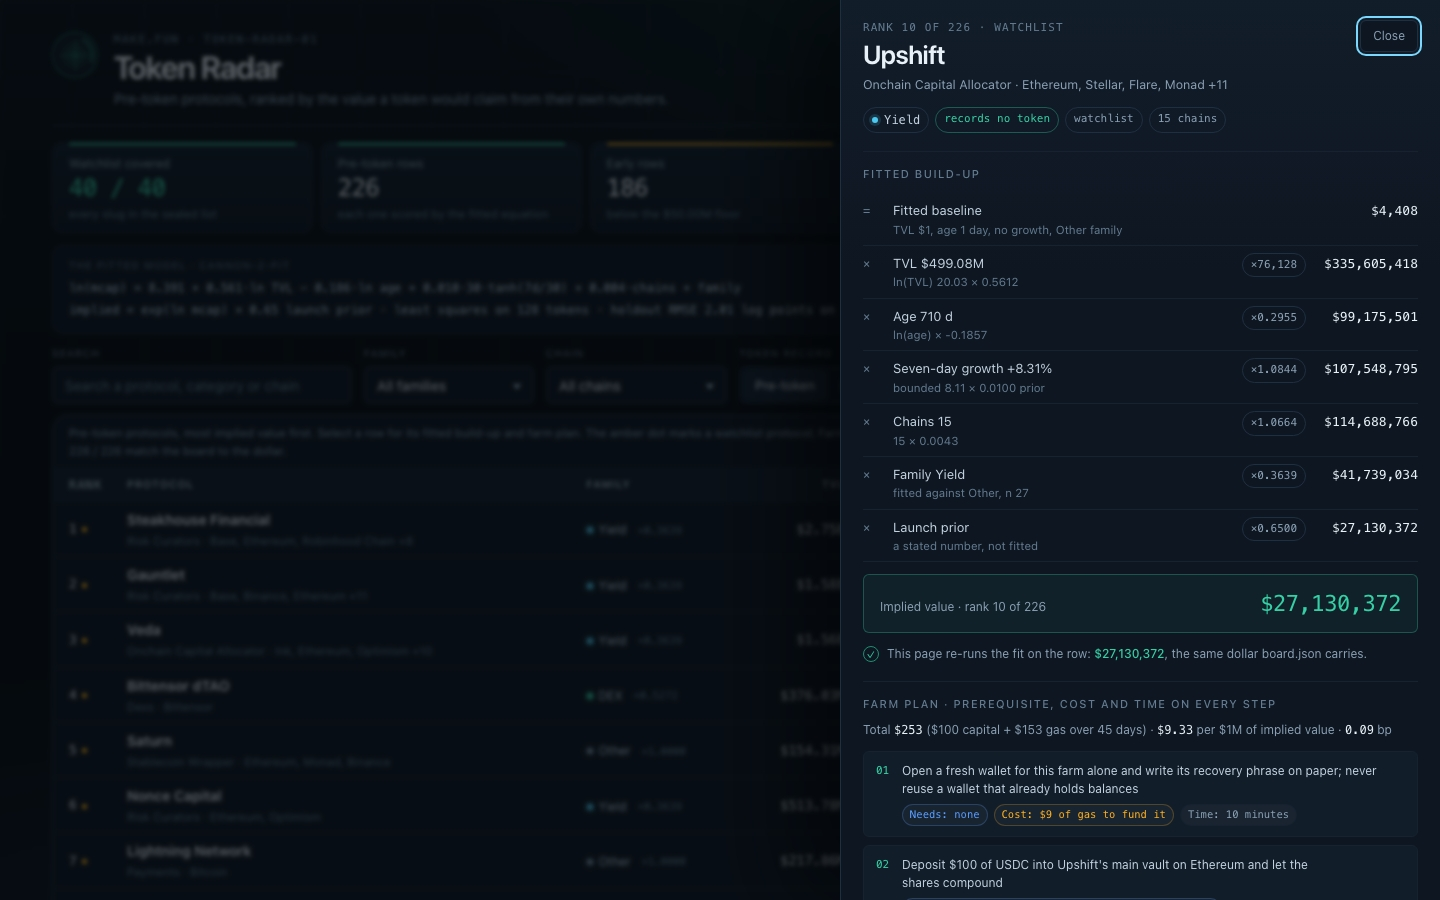
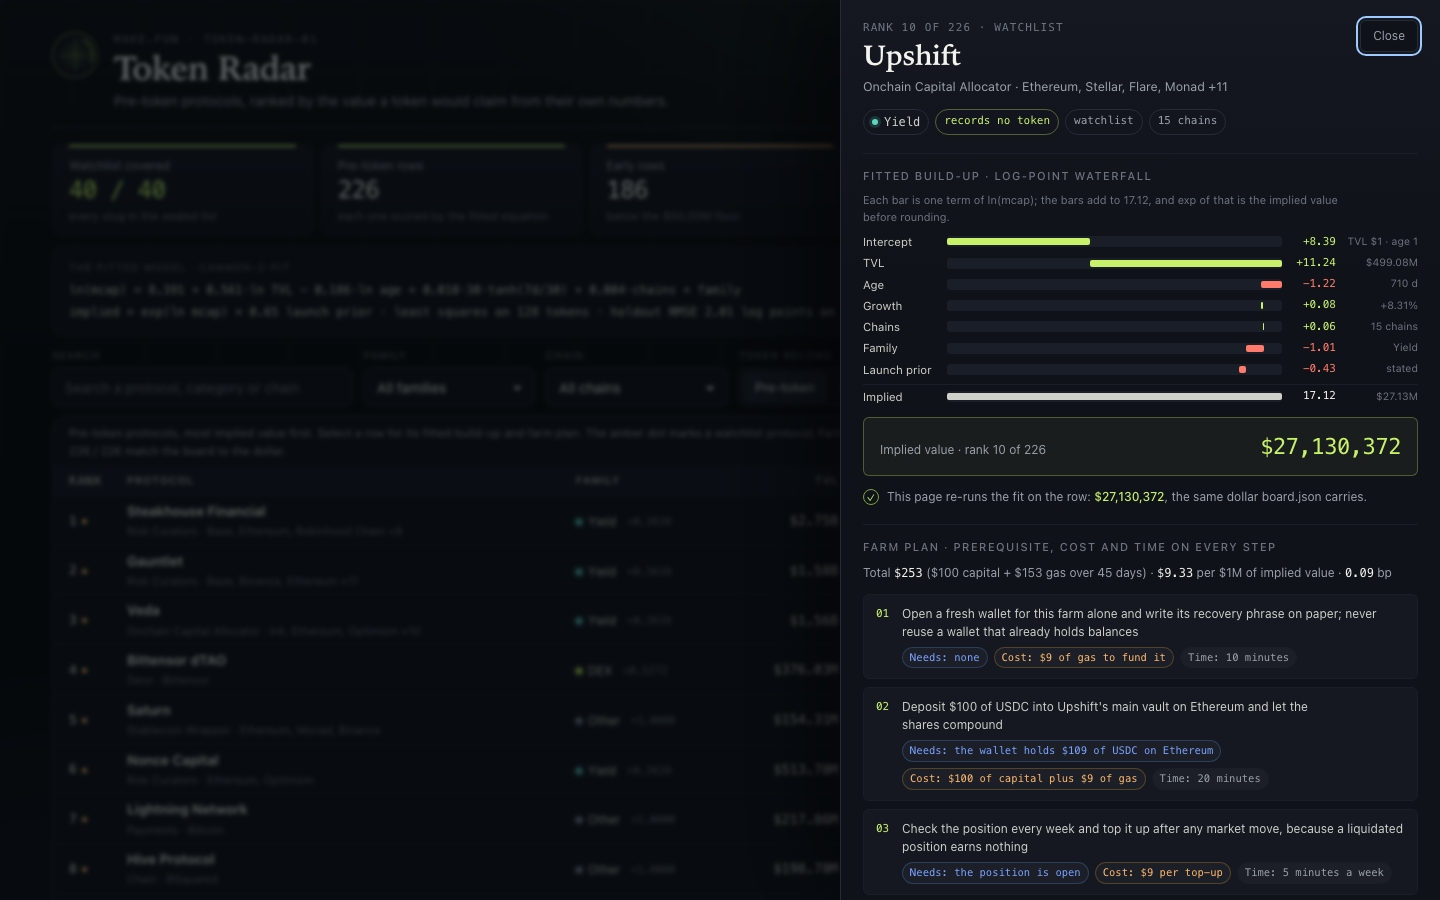
Rebuild the visual system and add a log-point waterfall
New ink-and-lime palette, serif display type, a denser board table, and a waterfall in the detail
drawer that draws each fitted term as a log-space bar ending at the implied value. The copy is
trimmed so the dossier's source text keeps fitting whole.

diff --git a/dashboard/app.css b/dashboard/app.css
@@ -1,35 +1,36 @@
 /* Token Radar: one palette, one spacing scale, one type ramp; colour only for families and direction. */
 
 :root {
-  --ground: #070b10;
-  --ground-2: #0a1119;
-  --panel: #0e1621;
-  --panel-2: #121d2a;
-  --raise: #172334;
-  --line: #1f2f42;
-  --line-soft: #16222f;
-  --ink: #e9f1f8;
-  --ink-2: #c3d2e0;
-  --muted: #8ba0b5;
-  --dim: #647b91;
-  --signal: #35d0a5;
-  --signal-2: #1f8f70;
-  --amber: #ffb020;
-  --danger: #ff6b6b;
-  --focus: #7cd7ff;
+  --ground: #08090b;
+  --ground-2: #0d0f13;
+  --panel: #101219;
+  --panel-2: #151821;
+  --raise: #1d212c;
+  --line: #262b38;
+  --line-soft: #1a1e28;
+  --ink: #f2f3ee;
+  --ink-2: #cdd1c9;
+  --muted: #9aa1ab;
+  --dim: #6d7480;
+  --signal: #c9f26b;
+  --signal-2: #7fa13c;
+  --amber: #ffb86b;
+  --danger: #ff7a6b;
+  --focus: #9ecbff;
 
   --perp: #ffb020;
-  --dex: #35d0a5;
-  --lending: #5b9dff;
-  --cdp: #b18cff;
-  --rwa: #ff7a59;
-  --yield: #4cc9f0;
-  --restaking: #f7d154;
-  --bridge: #9b8cff;
-  --other: #7d8fa3;
+  --dex: #c9f26b;
+  --lending: #7aa2ff;
+  --cdp: #c9a7ff;
+  --rwa: #ff8a65;
+  --yield: #5cd6c0;
+  --restaking: #ffd166;
+  --bridge: #a99bff;
+  --other: #8b94a3;
 
   --font-body: ui-sans-serif, system-ui, -apple-system, "Segoe UI", Roboto, "Helvetica Neue", sans-serif;
   --font-num: ui-monospace, "SF Mono", SFMono-Regular, Menlo, Consolas, "Liberation Mono", monospace;
+  --font-display: "Iowan Old Style", "Palatino Linotype", Palatino, "Book Antiqua", Georgia, serif;
 
   --s1: 4px;
   --s2: 8px;
@@ -51,8 +52,8 @@ body {
   min-height: 100vh;
   color: var(--ink);
   background:
-    radial-gradient(1100px 520px at 78% -8%, rgba(53, 208, 165, 0.10), transparent 62%),
-    radial-gradient(900px 460px at 8% 104%, rgba(91, 157, 255, 0.07), transparent 60%),
+    radial-gradient(1100px 520px at 78% -8%, rgba(201, 242, 107, 0.08), transparent 62%),
+    radial-gradient(900px 460px at 8% 104%, rgba(122, 162, 255, 0.06), transparent 60%),
     linear-gradient(180deg, var(--ground-2), var(--ground) 42%);
   background-attachment: fixed;
   font: 400 14px/1.5 var(--font-body);
@@ -96,14 +97,14 @@ a { color: var(--signal); }
 .identity { display: flex; align-items: flex-start; gap: var(--s4); min-width: 0; }
 .mark {
   position: relative; flex: none; width: 46px; height: 46px; border-radius: 50%;
-  border: 1px solid rgba(53, 208, 165, 0.5);
+  border: 1px solid rgba(201, 242, 107, 0.5);
   background:
-    radial-gradient(circle at 50% 50%, rgba(53, 208, 165, 0.22), transparent 58%),
+    radial-gradient(circle at 50% 50%, rgba(201, 242, 107, 0.18), transparent 58%),
     var(--panel);
   overflow: hidden;
 }
 .mark::before, .mark::after {
-  content: ""; position: absolute; background: rgba(53, 208, 165, 0.3);
+  content: ""; position: absolute; background: rgba(201, 242, 107, 0.3);
 }
 .mark::before { left: 50%; top: 6px; bottom: 6px; width: 1px; }
 .mark::after { top: 50%; left: 6px; right: 6px; height: 1px; }
@@ -118,7 +119,7 @@ a { color: var(--signal); }
 .eyebrow {
   color: var(--dim); font-family: var(--font-num); font-size: 11px; letter-spacing: 0.14em; text-transform: uppercase;
 }
-.identity h1 { margin-top: 2px; font-size: 32px; line-height: 1.02; font-weight: 620; letter-spacing: -0.035em; }
+.identity h1 { margin-top: 2px; font-family: var(--font-display); font-size: 34px; line-height: 1.02; font-weight: 600; letter-spacing: -0.02em; }
 .tagline { margin-top: 5px; max-width: 84ch; color: var(--muted); font-size: 14px; }
 .stamp { display: flex; gap: var(--s5); flex: none; padding-top: var(--s1); text-align: right; }
 .stamp dt { color: var(--dim); font-size: 10px; letter-spacing: 0.12em; text-transform: uppercase; }
@@ -207,10 +208,10 @@ a { color: var(--signal); }
 .table-wrap { overflow-x: auto; }
 table { width: 100%; border-collapse: collapse; font-size: 13.5px; }
 caption {
-  padding: 9px var(--s4); text-align: left; color: var(--muted); font-size: 11.5px;
+  padding: 7px var(--s4); text-align: left; color: var(--muted); font-size: 11.5px;
   border-bottom: 1px solid var(--line-soft);
 }
-th, td { padding: 7px var(--s3); border-bottom: 1px solid var(--line-soft); text-align: left; vertical-align: middle; }
+th, td { padding: 5px var(--s3); border-bottom: 1px solid var(--line-soft); text-align: left; vertical-align: middle; }
 th:first-child, td:first-child { padding-left: var(--s4); }
 th:last-child, td:last-child { padding-right: var(--s4); }
 th {
@@ -227,14 +228,14 @@ th button .arrow { color: var(--signal); font-size: 9px; }
 th[aria-sort] { color: var(--ink-2); }
 tbody tr { cursor: pointer; }
 tbody tr:hover { background: var(--panel-2); }
-tbody tr[data-selected="true"] { background: rgba(53, 208, 165, 0.07); box-shadow: inset 2px 0 0 var(--signal); }
+tbody tr[data-selected="true"] { background: rgba(201, 242, 107, 0.06); box-shadow: inset 2px 0 0 var(--signal); }
 tbody tr:last-child td { border-bottom: 0; }
 .rank { width: 62px; color: var(--dim); font-family: var(--font-num); font-size: 12px; }
 .rank b { color: var(--ink); font-weight: 500; font-size: 13px; }
 .wl-dot { display: inline-block; width: 5px; height: 5px; margin-left: 5px; border-radius: 50%; background: var(--amber); vertical-align: middle; }
 .proto { display: grid; gap: 2px; min-width: 220px; }
-.proto b { font-weight: 600; font-size: 14px; color: var(--ink); }
-.proto .sub { color: var(--dim); font-size: 11.5px; }
+.proto b { font-weight: 600; font-size: 13.5px; color: var(--ink); }
+.proto .sub { color: var(--dim); font-size: 11px; }
 .fam { display: inline-flex; align-items: center; gap: 6px; color: var(--ink-2); font-size: 12px; white-space: nowrap; }
 .fam::before { content: ""; width: 6px; height: 6px; border-radius: 50%; background: var(--fam-color, var(--other)); box-shadow: 0 0 0 3px color-mix(in srgb, var(--fam-color, var(--other)) 16%, transparent); }
 .fam-mult { margin-left: 5px; color: var(--dim); font-family: var(--font-num); font-size: 10.5px; }
@@ -263,7 +264,7 @@ tbody tr:last-child td { border-bottom: 0; }
 }
 .tag.live { border-color: rgba(91, 157, 255, 0.32); color: var(--lending); }
 .empty { padding: var(--s7) var(--s5); text-align: center; display: grid; gap: var(--s3); justify-items: center; }
-.empty h2 { font-size: 20px; }
+.empty h2 { font-family: var(--font-display); font-size: 21px; }
 .empty p { color: var(--muted); max-width: 52ch; }
 .button {
   min-height: 38px; padding: 0 var(--s4); border: 1px solid var(--line); border-radius: var(--r-sm);
@@ -276,13 +277,13 @@ tbody tr:last-child td { border-bottom: 0; }
 .method { margin-top: var(--s4); display: grid; grid-template-columns: minmax(0, 1.1fr) minmax(0, 0.9fr); gap: 0; }
 .method > section { padding: var(--s5); }
 .method > section + section { border-left: 1px solid var(--line-soft); }
-.method h2 { font-size: 18px; }
+.method h2 { font-family: var(--font-display); font-size: 19px; }
 .method p { margin-top: var(--s2); color: var(--muted); font-size: 13px; }
 .method .formula { margin-top: var(--s3); font-size: 12.5px; }
 .method .audit {
   margin-top: var(--s4); padding: var(--s3);
-  border: 1px solid rgba(53, 208, 165, 0.28); border-radius: var(--r-sm);
-  background: rgba(53, 208, 165, 0.06); color: var(--ink-2); font-size: 12.5px;
+  border: 1px solid rgba(201, 242, 107, 0.28); border-radius: var(--r-sm);
+  background: rgba(201, 242, 107, 0.05); color: var(--ink-2); font-size: 12.5px;
 }
 .method .audit b { color: var(--signal); font-family: var(--font-num); font-weight: 500; }
 .method .audit[data-ok="false"] { border-color: rgba(255, 107, 107, 0.4); background: rgba(255, 107, 107, 0.07); }
@@ -321,7 +322,7 @@ tbody tr:last-child td { border-bottom: 0; }
 .detail-inner { padding: 20px 22px 28px; }
 .detail-head { display: flex; align-items: flex-start; justify-content: space-between; gap: var(--s4); }
 .detail-head .rank-line { color: var(--dim); font-family: var(--font-num); font-size: 11px; letter-spacing: 0.1em; text-transform: uppercase; }
-.detail-head h2 { margin-top: var(--s1); font-size: 26px; line-height: 1.05; font-weight: 620; letter-spacing: -0.03em; }
+.detail-head h2 { margin-top: var(--s1); font-family: var(--font-display); font-size: 28px; line-height: 1.05; font-weight: 600; letter-spacing: -0.015em; }
 .detail-head .sub { margin-top: var(--s2); color: var(--muted); font-size: 12.5px; }
 .close {
   flex: none; min-height: 32px; padding: 0 var(--s3); border: 1px solid var(--line); border-radius: var(--r-sm);
@@ -333,25 +334,28 @@ tbody tr:last-child td { border-bottom: 0; }
   display: inline-flex; align-items: center; gap: 5px; padding: 3px 8px; border: 1px solid var(--line);
   border-radius: 999px; color: var(--muted); font-size: 11px; font-family: var(--font-num);
 }
-.chip.signal { border-color: rgba(53, 208, 165, 0.35); color: var(--signal); }
+.chip.signal { border-color: rgba(201, 242, 107, 0.35); color: var(--signal); }
 .detail-section { margin-top: 18px; padding-top: 14px; border-top: 1px solid var(--line-soft); }
 .detail-section h3 {
   font-size: 11px; letter-spacing: 0.13em; text-transform: uppercase; color: var(--dim); font-weight: 500;
 }
-.build { margin-top: var(--s3); display: grid; gap: 0; }
-.build-row {
-  display: grid; grid-template-columns: 22px minmax(0, 1fr) 82px minmax(0, 104px);
-  gap: var(--s2); align-items: baseline; padding: 7px 0; border-bottom: 1px solid var(--line-soft);
-}
-.build-row .op { color: var(--dim); font-family: var(--font-num); font-size: 12px; }
-.build-row .what { color: var(--ink-2); font-size: 13px; }
-.build-row .what span { display: block; color: var(--dim); font-size: 11.5px; }
-.build-row .factor { justify-self: end; }
-.build-row .amount { text-align: right; font-family: var(--font-num); font-size: 13px; color: var(--ink); }
+.wf { margin-top: var(--s2); display: grid; gap: 4px; }
+.wf-row { display: grid; grid-template-columns: 76px minmax(0, 1fr) 46px 74px; gap: var(--s2); align-items: center; }
+.wf-label { color: var(--ink-2); font-size: 11.5px; }
+.wf-track { position: relative; height: 11px; border-radius: 3px; background: var(--line-soft); overflow: hidden; }
+.wf-track i { position: absolute; top: 2px; bottom: 2px; border-radius: 2px; background: var(--signal); }
+.wf-track i.neg { background: var(--danger); }
+.wf-track i.sum { background: var(--ink-2); }
+.wf-row.sum { margin-top: 2px; padding-top: 3px; border-top: 1px solid var(--line-soft); }
+.wf-val { text-align: right; font-family: var(--font-num); font-size: 11px; }
+.wf-val.pos { color: var(--signal); }
+.wf-val.neg { color: var(--danger); }
+.wf-note { color: var(--dim); font-size: 10.5px; text-align: right; white-space: nowrap; overflow: hidden; text-overflow: ellipsis; }
+.wf-cap { margin-top: var(--s2); color: var(--dim); font-size: 11px; }
 .build-total {
   display: flex; justify-content: space-between; align-items: baseline; gap: var(--s3);
   margin-top: var(--s3); padding: var(--s3) var(--s4);
-  border: 1px solid rgba(53, 208, 165, 0.3); border-radius: var(--r-sm); background: rgba(53, 208, 165, 0.06);
+  border: 1px solid rgba(201, 242, 107, 0.3); border-radius: var(--r-sm); background: rgba(201, 242, 107, 0.05);
 }
 .build-total span { color: var(--muted); font-size: 12px; }
 .build-total b { font-family: var(--font-num); font-size: 22px; font-weight: 500; color: var(--signal); letter-spacing: -0.02em; }

diff --git a/dashboard/app.js b/dashboard/app.js
@@ -468,7 +468,7 @@
     return el('section', { class: 'panel method', 'aria-label': 'Methodology and the fit' },
       el('section', null,
         el('h2', { text: 'A model fitted to the snapshot\'s own tokens' }),
-        el('p', { text: FIT.n + ' protocols in the snapshot record both a TVL and a market cap. That is a labelled set, so the radar estimates its equation from it by least squares instead of asserting multipliers: one log-linear equation, ' + FIT.features + ' terms, closed form, standard library only. The target is the market cap a token would claim from the protocol\'s record — TVL, its seven-day growth, the days it has been listed, its chains and its category family.' }),
+        el('p', { text: FIT.n + ' protocols record both a TVL and a market cap. That labelled set lets the radar estimate its equation by least squares instead of asserting multipliers: one log-linear equation, ' + FIT.features + ' terms, closed form, standard library only. The target is the market cap a token would claim from the protocol\'s record — TVL, growth, listed days, chains and family.' }),
         el('p', { class: 'formula' },
           'ln(mcap) = ' + fmtNum(FIT.intercept, 4) + (FIT.ln_tvl >= 0 ? ' + ' : ' − ') + fmtNum(Math.abs(FIT.ln_tvl), 4) + '·ln(tvl)'
             + (FIT.ln_age >= 0 ? ' + ' : ' − ') + fmtNum(Math.abs(FIT.ln_age), 4) + '·ln(age days)'
@@ -476,7 +476,7 @@
             + (FIT.chains >= 0 ? ' + ' : ' − ') + fmtNum(Math.abs(FIT.chains), 4) + '·chains'
             + (FIT.age_missing >= 0 ? ' + ' : ' − ') + fmtNum(Math.abs(FIT.age_missing), 4) + '·(no listing date) + family'
         ),
-        el('p', { text: 'Seven-day change enters through 30·tanh(change/30): the raw percentage for ordinary weeks, never beyond ±30 points, so one protocol\'s +4,448% week cannot set the coefficient or run away with the board. Its coefficient is the model\'s one inside-the-fit prior, +' + fmtNum(FIT.change, 3) + ': the unconstrained fit put it at ' + fmtNum(FIT.change_fitted, 3) + ' ± ' + fmtNum(FIT.change_se, 3) + ' (t ' + fmtNum(FIT.change_t, 1) + '), indistinguishable from zero, and that sign would let a seven-day crash lift a row. The test is printed here; the prior is in the equation. A missing listing date enters at the training median age (' + NF.format(Math.round(MEDIAN_AGE)) + ' days) with its own term. Market caps of zero or below (' + FIT.excluded_nonpositive + ' protocols) cannot be logged and are left out of the fit.' }),
+        el('p', { text: 'Seven-day change is bounded by 30·tanh(change/30), so one protocol\'s +4,448% week cannot set the coefficient. Its +' + fmtNum(FIT.change, 3) + ' coefficient is a stated prior: the unconstrained fit gave ' + fmtNum(FIT.change_fitted, 3) + ' ± ' + fmtNum(FIT.change_se, 3) + ' (t ' + fmtNum(FIT.change_t, 1) + '), and that sign would let a seven-day crash lift a row. A missing listing date enters at the median age (' + NF.format(Math.round(MEDIAN_AGE)) + ' days); market caps of zero or below (' + FIT.excluded_nonpositive + ') are not fitted.' }),
         el('div', { class: 'stats' },
           stat('N', NF.format(FIT.n) + ' tokens'),
           stat('R²', fmtNum(FIT.r2, 3)),
@@ -489,7 +489,7 @@
           el('b', { text: auditOk + ' / ' + auditAll }),
           ' rows reproduce the dollar board.json carries' + (ok ? ', including the top row.' : '; the rows that differ should not be trusted.')
         ),
-        el('p', { text: 'Launch prior: every training row is a token that trades, and a pre-token protocol\'s token does not exist yet. The fitted value is therefore multiplied by ' + FIT.shrink + ' — a stated 35% discount for launch risk and a thin first market. It multiplies every row alike, so it moves no rank; growth\'s prior changes value, not the evidence.' }),
+        el('p', { text: 'Launch prior: every training row is a token that trades; a pre-token protocol\'s token does not exist yet. The fitted value is multiplied by ' + FIT.shrink + ', a stated 35% launch-risk discount. It multiplies every row alike, so it moves no rank; growth\'s prior changes value, not the evidence.' }),
         el('p', { text: 'What the fit found, and did not: ln(TVL) is the one strong term (t ' + fmtNum(FIT.ln_tvl / FIT.ln_tvl_se, 1) + '), and its exponent is below 1, so a protocol with more TVL is worth more at a falling multiple of it. Family effects rest on 2 to ' + Math.max.apply(null, FIT.families.map(function (f) { return f.n; })) + ' protocols each, so each prints its sample size and t rather than posing as settled. Age and chains keep the signs the data gave; age\'s is negative and its t is ' + fmtNum(FIT.ln_age / FIT.ln_age_se, 1) + ', a weak effect stated as one.' })
       ),
       el('section', null,
@@ -582,47 +582,53 @@
       el('span', { class: 'chip', text: row.chains.length + (row.chains.length === 1 ? ' chain' : ' chains') })
     ));
 
-    // The build-up: the fitted equation's terms as multiplicative factors, with the running dollar.
-    var build = el('div', { class: 'build' });
-    var running = Math.exp(FIT.intercept);
-    function buildRow(op, what, note, factor, amount) {
-      build.appendChild(el('div', { class: 'build-row' },
-        el('span', { class: 'op', text: op }),
-        el('span', { class: 'what' }, what, note ? el('span', { text: note }) : null),
-        factor ? el('span', { class: 'factor', text: factor }) : el('span', null),
-        el('span', { class: 'amount', text: amount })
+    // The waterfall: the fitted equation is additive in log space, so each term is one bar and the
+    // bars add to ln(implied before rounding). It shows which term moved the row, and by how much.
+    var build = el('div', { class: 'wf' });
+    var terms = [
+      { label: 'Intercept', delta: FIT.intercept, note: 'TVL $1 · age 1' },
+      { label: 'TVL', delta: t.tvlTerm, note: fmtUsd(row.tvl_usd) },
+      { label: 'Age', delta: t.ageTerm, note: fmtAge(row.age_days) },
+      { label: 'Growth', delta: t.changeTerm, note: fmtPct(row.change_7d) },
+      { label: 'Chains', delta: t.chainTerm, note: t.chains + (t.chains === 1 ? ' chain' : ' chains') },
+      { label: 'Family', delta: t.family, note: row.family_label },
+      { label: 'Launch prior', delta: Math.log(FIT.shrink), note: 'stated' }
+    ];
+    if (t.missing !== 0) terms.push({ label: 'No listing date', delta: t.missingTerm, note: 'indicator' });
+    var scale = 0;
+    var cum = 0;
+    terms.forEach(function (term) {
+      cum += term.delta;
+      scale = Math.max(scale, Math.abs(cum), Math.abs(cum - term.delta));
+    });
+    cum = 0;
+    terms.forEach(function (term) {
+      var start = cum;
+      var end = cum + term.delta;
+      cum = end;
+      var left = Math.max(0, (Math.min(start, end) / scale) * 100);
+      var width = (Math.abs(term.delta) / scale) * 100;
+      build.appendChild(el('div', { class: 'wf-row' },
+        el('span', { class: 'wf-label', text: term.label }),
+        el('span', { class: 'wf-track' }, el('i', { class: term.delta >= 0 ? 'pos' : 'neg', style: 'left:' + left.toFixed(2) + '%;width:' + Math.max(0.5, width).toFixed(2) + '%' })),
+        el('span', { class: 'wf-val ' + (term.delta >= 0 ? 'pos' : 'neg'), text: (term.delta >= 0 ? '+' : '−') + Math.abs(term.delta).toFixed(2) }),
+        el('span', { class: 'wf-note', text: term.note })
       ));
-    }
-    buildRow('=', 'Fitted baseline', 'TVL $1, age 1 day, no growth, Other family', '', fmtDollars(running));
-    var tvlFactor = Math.exp(t.tvlTerm);
-    running *= tvlFactor;
-    buildRow('×', 'TVL ' + fmtUsd(row.tvl_usd), 'ln(TVL) ' + fmtNum(t.lnTvl, 2) + ' × ' + fmtNum(FIT.ln_tvl, 4), factorText(tvlFactor), fmtDollars(running));
-    var ageFactor = Math.exp(t.ageTerm);
-    running *= ageFactor;
-    buildRow('×', 'Age ' + fmtAge(row.age_days), row.age_days === null ? 'no listing date; median ' + NF.format(Math.round(MEDIAN_AGE)) + ' days used' : 'ln(age) × ' + fmtNum(FIT.ln_age, 4), factorText(ageFactor), fmtDollars(running));
-    var changeFactor = Math.exp(t.changeTerm);
-    running *= changeFactor;
-    buildRow('×', 'Seven-day growth ' + fmtPct(row.change_7d), 'bounded ' + fmtNum(t.change, 2) + ' × ' + fmtNum(FIT.change, 4) + ' prior', factorText(changeFactor), fmtDollars(running));
-    var chainFactor = Math.exp(t.chainTerm);
-    running *= chainFactor;
-    buildRow('×', 'Chains ' + t.chains, t.chains + ' × ' + fmtNum(FIT.chains, 4), factorText(chainFactor), fmtDollars(running));
-    var familyMult = FAMILY_MULT[row.family] === undefined ? 1 : FAMILY_MULT[row.family];
-    running *= familyMult;
-    buildRow('×', 'Family ' + row.family_label, 'fitted against Other, n ' + (DATA.families.filter(function (f) { return f.key === row.family; })[0] || { n: 0 }).n, factorText(familyMult), fmtDollars(running));
-    if (t.missing !== 0) {
-      var missFactor = Math.exp(t.missingTerm);
-      running *= missFactor;
-      buildRow('×', 'No listing date', 'the fit\'s own indicator', factorText(missFactor), fmtDollars(running));
-    }
-    running *= FIT.shrink;
-    buildRow('×', 'Launch prior', 'a stated number, not fitted', factorText(FIT.shrink), fmtDollars(running));
+    });
+    build.appendChild(el('div', { class: 'wf-row sum' },
+      el('span', { class: 'wf-label', text: 'Implied' }),
+      el('span', { class: 'wf-track' }, el('i', { class: 'sum', style: 'left:0;width:100%' })),
+      el('span', { class: 'wf-val', text: fmtNum(t.z + Math.log(FIT.shrink), 2) }),
+      el('span', { class: 'wf-note', text: fmtUsd(row.implied_value_usd) })
+    ));
 
     var total = el('div', { class: 'build-total' },
       el('span', null, 'Implied value · rank ' + row.rank + ' of ' + DATA.board_size),
       el('b', { text: fmtDollars(row.implied_value_usd) })
     );
     inner.appendChild(el('section', { class: 'detail-section' },
-      el('h3', { text: 'Fitted build-up' }),
+      el('h3', { text: 'Fitted build-up · log-point waterfall' }),
+      el('p', { class: 'wf-cap', text: 'Each bar is one term of ln(mcap); the bars add to ' + fmtNum(t.z + Math.log(FIT.shrink), 2) + ', and exp of that is the implied value before rounding.' }),
       build,
       total,
       el('p', { class: 'check-line ' + (same ? '' : 'bad') },
